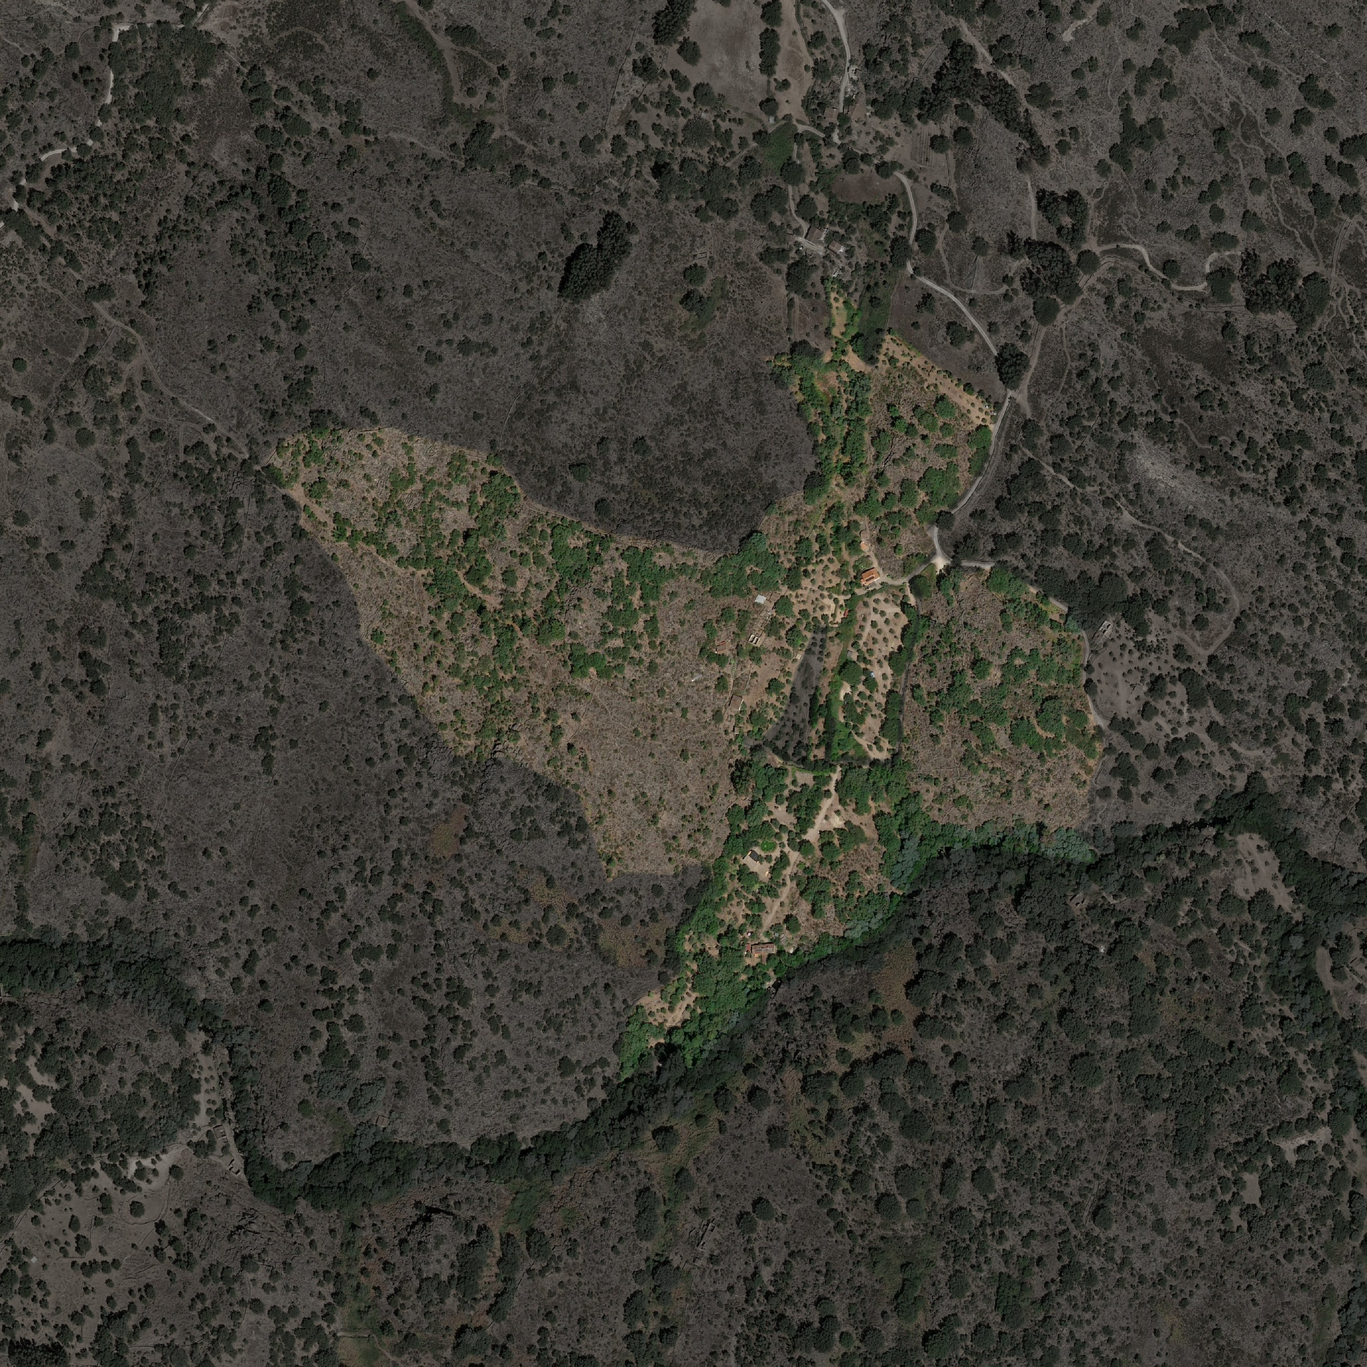
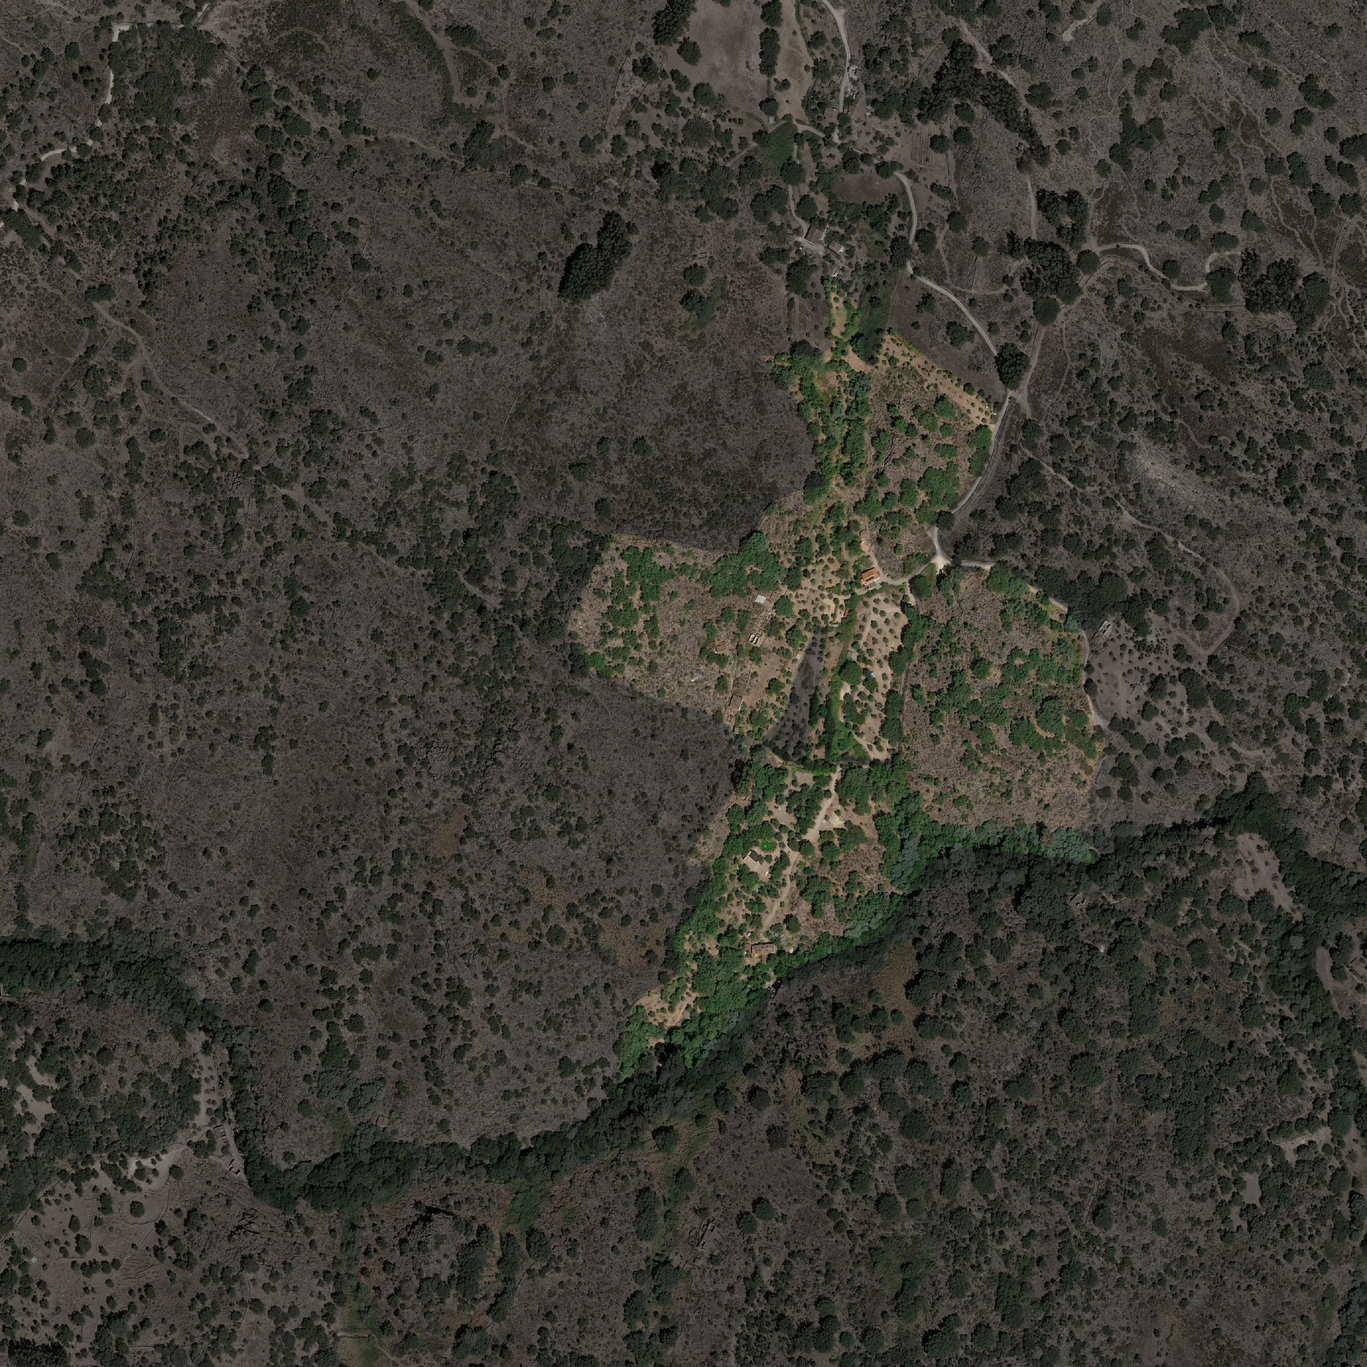
The Land planner: real land outline, navigate/edit modes, touch gestures, help

Changed region(s): [[0.1875, 0.3125, 0.5625, 0.6562]]

diff --git a/the-land/index.html b/the-land/index.html
@@ -82,6 +82,15 @@ input[type=checkbox]{accent-color:var(--accent);width:15px;height:15px}
 .save.busy i{background:var(--accent)} .save.local i{background:var(--warn)}
 .confirm{background:var(--chip);border:1px solid var(--line);border-radius:10px;padding:10px;display:flex;flex-direction:column;gap:8px;font-size:13px}
 .toggle-sheet{display:none}
+.iconbtn{width:34px;height:34px;padding:0;display:inline-grid;place-items:center;border-radius:50%;font-weight:700}
+.mbar{display:none}
+.modal{position:fixed;inset:0;z-index:30;background:rgba(10,14,11,.5);display:grid;place-items:center;padding:16px}
+.modal .box{background:var(--panel);color:var(--fg);border-radius:16px;box-shadow:var(--shadow);max-width:460px;width:100%;max-height:calc(100% - 32px);overflow:auto;padding:18px 20px;display:flex;flex-direction:column;gap:12px}
+.modal h2{font-family:var(--f-display);font-weight:400;font-size:22px;margin:0}
+.modal h3{font-size:12px;letter-spacing:.1em;text-transform:uppercase;color:var(--muted);margin:6px 0 0}
+.gest{display:grid;grid-template-columns:auto 1fr;gap:8px 12px;font-size:14px;align-items:start}
+.gest b{white-space:nowrap}
+.seg.tools{grid-template-columns:repeat(4,1fr);grid-auto-flow:row}
 
 .card{position:fixed;z-index:6;right:max(16px,env(safe-area-inset-right,0px));top:calc(16px + env(safe-area-inset-top,0px));width:270px;
   background:var(--panel);border:1px solid var(--line);border-radius:14px;box-shadow:var(--shadow);padding:14px 16px;display:flex;flex-direction:column;gap:10px}
@@ -106,6 +115,19 @@ input[type=checkbox]{accent-color:var(--accent);width:15px;height:15px}
 kbd{font:600 11px var(--f-body);background:var(--chip);border:1px solid var(--line);border-radius:4px;padding:0 4px}
 
 @media (max-width:720px){
+  .panel:not(.open){display:none}
+  .mbar{display:flex;flex-direction:column;gap:8px;position:fixed;z-index:6;left:0;right:0;bottom:0;
+    padding:10px max(12px,env(safe-area-inset-right,0px)) calc(10px + env(safe-area-inset-bottom,0px)) max(12px,env(safe-area-inset-left,0px));
+    background:color-mix(in srgb,var(--panel) 92%,transparent);border-top:1px solid var(--line);border-radius:16px 16px 0 0;box-shadow:var(--shadow);backdrop-filter:blur(8px)}
+  .mbar .top{display:flex;align-items:center;gap:8px}
+  .mbar .n{font-family:var(--f-display);font-size:24px;line-height:1}
+  .mbar .n small{font-family:var(--f-body);font-size:12px;color:var(--muted);margin-left:4px}
+  .mbar .seg button{padding:8px 4px;font-size:13px}
+  .mbar.min{padding-top:6px;padding-bottom:calc(6px + env(safe-area-inset-bottom,0px))}
+  .mbar.min .tools,.mbar.min .vseg,.mbar.min .mbtns{display:none}
+  .mbar:not(.min) .showctl{display:none}
+  .panel.open ~ .mbar{display:none}
+  .hint{bottom:auto;top:calc(10px + env(safe-area-inset-top,0px))}
   .panel{top:auto;bottom:calc(0px + env(safe-area-inset-bottom,0px));left:0;right:0;width:auto;border-radius:16px 16px 0 0;max-height:62%;
     padding-left:max(0px,env(safe-area-inset-left,0px));padding-right:max(0px,env(safe-area-inset-right,0px))}
   .panel.collapsed .more,.panel.collapsed #scnBtns,.panel.collapsed .brand .eyebrow{display:none}
@@ -116,7 +138,7 @@ kbd{font:600 11px var(--f-body);background:var(--chip);border:1px solid var(--li
   .count b{font-size:44px}
   .card{top:calc(48px + env(safe-area-inset-top,0px));left:max(16px,env(safe-area-inset-left,0px));right:max(16px,env(safe-area-inset-right,0px));width:auto;z-index:7;padding:12px 14px;gap:8px}
   .card .kv{grid-template-columns:auto auto auto auto;font-size:12px}
-  .hint{bottom:auto;top:calc(12px + env(safe-area-inset-top,0px));font-size:12px}
+  .hint{font-size:12px}
   .compass{display:none}
 }
 @media (pointer:coarse){.kbd{display:none}}
@@ -144,8 +166,8 @@ kbd{font:600 11px var(--f-body);background:var(--chip);border:1px solid var(--li
 <aside class="panel" id="panel" aria-label="Yurt planner">
   <div class="sec">
     <div class="brand">
-      <div><div class="eyebrow">Terra Sangha · Marvão · 15.8 ha</div><h1>Yurt Planner</h1></div>
-      <button class="ghost toggle-sheet" id="sheetBtn" aria-expanded="true">Less</button>
+      <div><div class="eyebrow" id="areaLbl">Terra Sangha · Marvão</div><h1>Yurt Planner</h1></div>
+      <div class="row" style="gap:6px;flex-wrap:nowrap"><button class="iconbtn" id="helpBtn" aria-label="How to use">?</button><button class="toggle-sheet" id="sheetBtn">Done</button></div>
     </div>
     <div class="row">
       <select id="scnSel" class="grow" aria-label="Scenario"></select>
@@ -158,11 +180,11 @@ kbd{font:600 11px var(--f-body);background:var(--chip);border:1px solid var(--li
   <div class="sec">
     <div class="count"><b id="nYurts">0</b><span id="nLabel">yurts placed</span></div>
     <div class="chips" id="chips"></div>
-    <div class="seg" role="group" aria-label="Tool">
-      <button id="tMove" aria-pressed="true">Move</button><button id="tAdd" aria-pressed="false">Add</button><button id="tDel" aria-pressed="false">Remove</button>
+    <div class="seg tools" role="group" aria-label="Mode">
+      <button data-tool="look" aria-pressed="false">Navigate</button><button data-tool="move" aria-pressed="true">Move</button><button data-tool="add" aria-pressed="false">Add</button><button data-tool="remove" aria-pressed="false">Remove</button>
     </div>
     <div class="seg" role="group" aria-label="View">
-      <button id="v3d" aria-pressed="true">3D view</button><button id="vTop" aria-pressed="false">Top view</button>
+      <button data-view="3d" aria-pressed="true">3D view</button><button data-view="top" aria-pressed="false">Top view</button>
     </div>
   </div>
   <div class="more">
@@ -199,10 +221,50 @@ kbd{font:600 11px var(--f-body);background:var(--chip);border:1px solid var(--li
       </div>
       <div id="clearForm" hidden></div>
       <div class="save" id="save"><i></i><span>Loading…</span></div>
-      <p class="note kbd"><kbd>A</kbd> add · <kbd>V</kbd> move · <kbd>T</kbd> top view · <kbd>Q</kbd>/<kbd>E</kbd> turn door · <kbd>Del</kbd> remove · <kbd>⌘Z</kbd> undo</p>
+      <p class="note kbd"><kbd>Shift</kbd>+drag moves the view · <kbd>N</kbd> navigate · <kbd>A</kbd> add · <kbd>V</kbd> move · <kbd>T</kbd> top view · <kbd>Q</kbd>/<kbd>E</kbd> turn door · <kbd>⌘Z</kbd> undo</p>
     </div>
   </div>
 </aside>
+
+<div class="mbar" id="mbar">
+  <div class="top">
+    <div class="n grow"><span id="mN">0</span><small>yurts</small></div>
+    <div class="seg vseg" role="group" aria-label="View"><button data-view="3d" aria-pressed="true">3D</button><button data-view="top" aria-pressed="false">Top</button></div>
+    <button class="iconbtn mbtns" id="mHelp" aria-label="How to use">?</button>
+    <button class="mbtns" id="mMore">More</button>
+    <button class="mbtns" id="mHide" aria-label="Hide controls">Hide</button>
+    <button class="showctl" id="mShow">Show controls</button>
+  </div>
+  <div class="seg tools" role="group" aria-label="Mode">
+    <button data-tool="look" aria-pressed="true">Navigate</button><button data-tool="move" aria-pressed="false">Move</button><button data-tool="add" aria-pressed="false">Add</button><button data-tool="remove" aria-pressed="false">Remove</button>
+  </div>
+</div>
+
+<div class="modal" id="help" hidden role="dialog" aria-modal="true" aria-labelledby="helpTitle">
+  <div class="box">
+    <div class="row" style="justify-content:space-between"><h2 id="helpTitle">How to use the planner</h2><button id="helpClose">Close</button></div>
+    <p class="note" style="font-size:13.5px;margin:0">Pick a mode: <b>Navigate</b> to look around, <b>Move</b>, <b>Add</b> or <b>Remove</b> to work on yurts. While you work on yurts the camera stays still under one finger, so dragging moves the yurt and not the view.</p>
+    <div id="helpTouch">
+      <h3>Fingers</h3>
+      <div class="gest">
+        <b>1 finger drag</b><span>Navigate: move across the land. Move mode: drag a yurt.</span>
+        <b>Pinch</b><span>Zoom in and out (works in every mode).</span>
+        <b>2 finger drag</b><span>Turn and tilt the view (in 3D). In top view it moves the map.</span>
+        <b>Tap</b><span>Add mode: place a yurt. Remove mode: take one away. Tap a yurt to see its details.</span>
+      </div>
+    </div>
+    <div id="helpMouse">
+      <h3>Mouse and keyboard</h3>
+      <div class="gest">
+        <b>Drag</b><span>Turn the view (3D) or move the map (top view). Drag a yurt to move it.</span>
+        <b>Shift + drag</b><span>Move across the land. Right-drag does the same.</span>
+        <b>Scroll</b><span>Zoom in and out.</span>
+        <b>Keys</b><span><kbd>N</kbd> navigate · <kbd>V</kbd> move · <kbd>A</kbd> add · <kbd>X</kbd> remove · <kbd>T</kbd> top view · <kbd>Q</kbd>/<kbd>E</kbd> turn door · <kbd>Del</kbd> remove · <kbd>⌘Z</kbd> undo</span>
+      </div>
+    </div>
+    <p class="note" style="margin:0">Yurts can only be placed inside the land (gold outline). Your scenarios are saved in this browser.</p>
+  </div>
+</div>
 
 <div class="card" id="card" hidden>
   <div class="row" style="justify-content:space-between"><h2 id="cTitle">Yurt</h2><button class="ghost" id="cClose" aria-label="Close">Close</button></div>
@@ -253,6 +315,9 @@ const inTerrain = (lx, ly) => lx > T.x0 + 2 && lx < T.x0 + T.nx - 3 && ly < T.y1
 const boundary = site.boundary;
 function pip(x, y, poly) { let ins = false; for (let i = 0, j = poly.length - 1; i < poly.length; j = i++) { const [xi, yi] = poly[i], [xj, yj] = poly[j]; if ((yi > y) !== (yj > y) && x < (xj - xi) * (y - yi) / (yj - yi) + xi) ins = !ins; } return ins; }
 const inLand = (x, y) => boundary.some(p => pip(x, y, p)) && !site.holes.some(p => pip(x, y, p));
+const RING8 = Array.from({ length: 8 }, (_, k) => [Math.cos(k * Math.PI / 4), Math.sin(k * Math.PI / 4)]);
+const validSpot = (x, y) => inTerrain(x, y) && inLand(x, y) && RING8.every(([a, b]) => inLand(x + a * 4, y + b * 4));
+$('areaLbl').textContent = `Terra Sangha · Marvão · ${(site.area_m2 / 10000).toFixed(1)} ha`;
 const riverPts = site.river.flat();
 function riverDist(x, y) {
   let best = 1e9;
@@ -582,7 +647,7 @@ function rebuildRings() {
 const persp = new THREE.PerspectiveCamera(42, innerWidth / innerHeight, 1, 30000);
 persp.position.set(ctr.x - 230, ctr.y + 430, ctr.z + 560);
 const orbit = new OrbitControls(persp, renderer.domElement);
-orbit.target.copy(ctr); orbit.enableDamping = true; orbit.dampingFactor = .09; orbit.maxPolarAngle = Math.PI * .47; orbit.minDistance = 15; orbit.maxDistance = 4000; orbit.screenSpacePanning = false;
+orbit.target.copy(ctr); orbit.zoomToCursor = true; orbit.enableDamping = true; orbit.dampingFactor = .09; orbit.maxPolarAngle = Math.PI * .47; orbit.minDistance = 15; orbit.maxDistance = 4000; orbit.screenSpacePanning = false;
 const TOPH = 360;
 const topCam = new THREE.OrthographicCamera(-1, 1, 1, -1, 1, 5000);
 function sizeOrtho() { const a = innerWidth / innerHeight; topCam.left = -TOPH * a; topCam.right = TOPH * a; topCam.top = TOPH; topCam.bottom = -TOPH; topCam.updateProjectionMatrix(); }
@@ -594,10 +659,17 @@ topCtl.minZoom = .5; topCtl.maxZoom = 18; topCtl.zoomToCursor = true;
 topCtl.mouseButtons = { LEFT: THREE.MOUSE.PAN, MIDDLE: THREE.MOUSE.DOLLY, RIGHT: THREE.MOUSE.PAN };
 topCtl.touches = { ONE: THREE.TOUCH.PAN, TWO: THREE.TOUCH.DOLLY_PAN };
 topCtl.enabled = false;
+// touch: 1 finger moves across the land, 2 fingers pinch-zoom and turn/tilt (map apps); mouse: drag turns, shift/right-drag moves
+function applyGestures() {
+  const editing = tool !== 'look';
+  orbit.touches = { ONE: editing ? null : THREE.TOUCH.PAN, TWO: THREE.TOUCH.DOLLY_ROTATE };
+  topCtl.touches = { ONE: editing ? null : THREE.TOUCH.PAN, TWO: THREE.TOUCH.DOLLY_PAN };
+}
+let tool = touch ? 'look' : 'move';
 const cam = () => topView ? topCam : persp;
 const ctl = () => topView ? topCtl : orbit;
 function setView(top) {
-  topView = top; $('v3d').setAttribute('aria-pressed', !top); $('vTop').setAttribute('aria-pressed', top);
+  topView = top; document.querySelectorAll('[data-view]').forEach(b => b.setAttribute('aria-pressed', (b.dataset.view === 'top') === top));
   orbit.enabled = !top; topCtl.enabled = top;
   if (top) { const t = orbit.target.clone(); topCtl.target.copy(t); topCam.position.set(t.x, t.y + 1500, t.z + 0.01); topCam.zoom = Math.max(.6, Math.min(8, 900 / persp.position.distanceTo(orbit.target))); topCam.updateProjectionMatrix(); topCtl.update(); }
   else { const t = topCtl.target.clone(), d = Math.max(120, 900 / topCam.zoom); const off = persp.position.clone().sub(orbit.target).setLength(d); orbit.target.copy(t); persp.position.copy(t).add(off); orbit.update(); }
@@ -620,14 +692,25 @@ function groundHit(e) {
   }
   return null;
 }
-function yurtHit(e) { if (!yurts.length) return -1; setRay(e); const h = ray.intersectObject(pick, false); return h.length ? h[0].instanceId : -1; }
+function yurtHit(e) {
+  if (!yurts.length) return -1; setRay(e); const h = ray.intersectObject(pick, false); if (h.length) return h[0].instanceId;
+  const r = renderer.domElement.getBoundingClientRect(), tol = e.pointerType === 'touch' ? 34 : 12; let best = -1, bd = tol;
+  yurts.forEach((y, i) => { pv.set(y.x, (info[i]?.top ?? 0) + 1.5, -y.y).project(cam()); if (pv.z > 1) return;
+    const d = Math.hypot((pv.x * .5 + .5) * r.width - (e.clientX - r.left), (-pv.y * .5 + .5) * r.height - (e.clientY - r.top)); if (d < bd) { bd = d; best = i; } });
+  return best;
+}
 
 // ---------- interaction ----------
-let tool = 'move';
-function setTool(t) { tool = t; for (const [id, v] of [['tMove', 'move'], ['tAdd', 'add'], ['tDel', 'remove']]) $(id).setAttribute('aria-pressed', v === t); renderer.domElement.style.cursor = t === 'add' ? 'crosshair' : ''; setHint(); }
+function setTool(t) {
+  tool = t; document.querySelectorAll('[data-tool]').forEach(b => b.setAttribute('aria-pressed', b.dataset.tool === t));
+  renderer.domElement.style.cursor = t === 'add' ? 'crosshair' : ''; applyGestures(); setHint();
+}
 function setHint() {
-  const h = { move: touch ? 'Drag a yurt to move it · drag the ground to look around' : 'Drag a yurt to move it · drag the ground to look around · scroll to zoom',
-    add: 'Tap or click on the land to place a yurt', remove: 'Tap or click a yurt to remove it' }[tool];
+  const h = touch ? {
+    look: topView ? '1 finger moves the map · pinch to zoom' : '1 finger moves · 2 fingers turn and tilt · pinch to zoom',
+    move: 'Drag a yurt with 1 finger · 2 fingers move the view', add: 'Tap the land to place a yurt · 2 fingers move the view', remove: 'Tap a yurt to remove it · 2 fingers move the view' }[tool] : {
+    look: topView ? 'Drag to move the map · scroll to zoom' : 'Drag to turn · Shift+drag or right-drag to move · scroll to zoom',
+    move: topView ? 'Drag a yurt to move it · drag the ground to move the map' : 'Drag a yurt to move it · drag the ground to turn · Shift+drag to move', add: 'Click on the land to place a yurt', remove: 'Click a yurt to remove it' }[tool];
   $('hint').textContent = h;
 }
 let drag = null, down = null;
@@ -636,7 +719,8 @@ stage.addEventListener('pointerdown', e => {
   if (e.button !== 0 && e.pointerType === 'mouse') return;
   down = { x: e.clientX, y: e.clientY, t: performance.now(), id: e.pointerId };
   const i = yurtHit(e);
-  if (i >= 0 && tool !== 'remove') {
+  if (drag) return;
+  if (i >= 0 && (tool === 'move' || tool === 'add')) {
     const g = groundHit(e);
     drag = { i, dx: g ? yurts[i].x - g.x : 0, dy: g ? yurts[i].y - g.y : 0, moved: false, before: snapshot() };
     ctl().enabled = false; selected = i; el.setPointerCapture(e.pointerId); rebuild();
@@ -645,7 +729,11 @@ stage.addEventListener('pointerdown', e => {
 el.addEventListener('pointermove', e => {
   if (drag) {
     const g = groundHit(e); if (!g) return;
-    const y = yurts[drag.i]; y.x = g.x + drag.dx; y.y = g.y + drag.dy; drag.moved = true; rebuild();
+    const y = yurts[drag.i], nx = g.x + drag.dx, ny = g.y + drag.dy;
+    if (drag.wasValid === undefined) drag.wasValid = validSpot(y.x, y.y);
+    if (drag.wasValid && !validSpot(nx, ny)) { drag.blocked = true; return; }
+    if (!drag.wasValid && validSpot(nx, ny)) drag.wasValid = true;
+    y.x = nx; y.y = ny; drag.moved = true; rebuild();
   } else if (!touch && !down) {
     const i = yurtHit(e); el.style.cursor = i >= 0 ? (tool === 'remove' ? 'not-allowed' : 'grab') : (tool === 'add' ? 'crosshair' : '');
   }
@@ -655,11 +743,13 @@ function endPointer(e) {
   if (drag) {
     ctl().enabled = true;
     if (drag.moved) commit(drag.before);
+    if (drag.blocked) toast('Yurts stay inside the land (gold outline).');
     drag = null;
   } else if (click) {
     const i = yurtHit(e);
     if (tool === 'remove' && i >= 0) { const b = snapshot(); yurts.splice(i, 1); selected = -1; commit(b); rebuild(); }
-    else if (tool === 'add' && i < 0) { const g = groundHit(e); if (g) addYurt(g.x, g.y); }
+    else if (tool === 'add' && i < 0) { const g = groundHit(e); if (g) { if (validSpot(g.x, g.y)) addYurt(g.x, g.y); else toast('That spot is outside the land. Place yurts inside the gold outline.'); } }
+    else if (i >= 0 && tool === 'look') { selected = i; rebuild(); }
     else if (i < 0 && selected >= 0) { selected = -1; rebuild(); }
   }
   down = null;
@@ -682,11 +772,11 @@ addEventListener('keydown', e => {
   const k = e.key.toLowerCase();
   if ((e.metaKey || e.ctrlKey) && k === 'z') { e.preventDefault(); undo(); return; }
   if (e.metaKey || e.ctrlKey || e.altKey) return;
-  if (k === 'a') setTool('add'); else if (k === 'v') setTool('move'); else if (k === 'x') setTool('remove');
+  if (k === 'n') setTool('look'); else if (k === 'a') setTool('add'); else if (k === 'v') setTool('move'); else if (k === 'x') setTool('remove');
   else if (k === 't') setView(!topView);
   else if (k === 'q') rotateSel(Math.PI / 12); else if (k === 'e') rotateSel(-Math.PI / 12);
   else if (k === 'delete' || k === 'backspace') { e.preventDefault(); removeSel(); }
-  else if (k === 'escape') { selected = -1; rebuild(); }
+  else if (k === 'escape') { $('help').hidden = true; selected = -1; rebuild(); }
 });
 
 // ---------- history ----------
@@ -698,7 +788,7 @@ function undo() { if (!history.length) return; yurts = JSON.parse(history.pop())
 // ---------- panel ----------
 function chip(cls, n, text) { return `<span class="chip ${cls}${n ? '' : ' zero'}"><i class="dot"></i>${n} ${text}</span>`; }
 function updatePanel() {
-  const n = yurts.length; $('nYurts').textContent = n; $('nLabel').textContent = n === 1 ? 'yurt placed' : 'yurts placed';
+  const n = yurts.length; $('nYurts').textContent = n; $('mN').textContent = n; $('nLabel').textContent = n === 1 ? 'yurt placed' : 'yurts placed';
   const inside = info.filter(f => f.inside && !f.edge).length, out = info.filter(f => !f.inside).length, edge = info.filter(f => f.edge).length;
   const close = info.filter(f => f.near < settings.spacing).length, riv = settings.buffer ? info.filter(f => f.river < settings.buffer).length : 0;
   const bld = info.filter(f => f.building).length, trees = info.reduce((s, f) => s + f.trees, 0);
@@ -718,13 +808,20 @@ function updateCard() {
   ].map(([k, v]) => `<dt>${k}</dt><dd>${v}</dd>`).join('');
   $('cIssues').innerHTML = f.issues.length ? f.issues.map(([s, t]) => `<div><i class="dot" style="background:var(--${s})"></i>${t}</div>`).join('') : `<div><i class="dot"></i>Fits all the rules</div>`;
 }
-$('tMove').onclick = () => setTool('move'); $('tAdd').onclick = () => setTool('add'); $('tDel').onclick = () => setTool('remove');
-$('v3d').onclick = () => setView(false); $('vTop').onclick = () => setView(true);
+document.querySelectorAll('[data-tool]').forEach(b => b.onclick = () => setTool(b.dataset.tool));
+document.querySelectorAll('[data-view]').forEach(b => b.onclick = () => setView(b.dataset.view === 'top'));
+const openHelp = () => { $('helpTouch').hidden = !touch && innerWidth > 720; $('helpMouse').hidden = touch; $('help').hidden = false; $('helpClose').focus(); };
+$('helpBtn').onclick = openHelp; $('mHelp').onclick = openHelp;
+$('helpClose').onclick = () => { $('help').hidden = true; };
+$('help').onclick = e => { if (e.target === $('help')) $('help').hidden = true; };
+$('mMore').onclick = () => { $('panel').classList.add('open'); };
+$('mHide').onclick = () => { $('mbar').classList.add('min'); };
+$('mShow').onclick = () => { $('mbar').classList.remove('min'); };
 $('rotL').onclick = () => rotateSel(Math.PI / 12); $('rotR').onclick = () => rotateSel(-Math.PI / 12); $('cDel').onclick = removeSel;
 $('cClose').onclick = () => { selected = -1; rebuild(); };
 $('undo').onclick = undo;
-$('sheetBtn').onclick = () => { const p = $('panel'), col = p.classList.toggle('collapsed'); $('sheetBtn').textContent = col ? 'More' : 'Less'; $('sheetBtn').setAttribute('aria-expanded', !col); };
-if (innerWidth <= 720) { $('sheetBtn').click(); $('lNames').checked = false; $('labels').hidden = true; }
+$('sheetBtn').onclick = () => { $('panel').classList.remove('open'); };
+if (innerWidth <= 720) { $('lNames').checked = false; $('labels').hidden = true; }
 function applySettingsUI() {
   $('spacing').value = settings.spacing; $('spacingV').textContent = settings.spacing + ' m';
   $('buffer').value = settings.buffer; $('bufferV').textContent = settings.buffer ? settings.buffer + ' m' : 'off';
@@ -763,7 +860,7 @@ $('fill').onclick = () => {
   const x0 = Math.min(...xs), x1 = Math.max(...xs), y0 = Math.min(...ys), y1 = Math.max(...ys), st = 2;
   let added = 0;
   for (let y = y1; y >= y0 && yurts.length < MAXN; y -= st) for (let x = x0; x <= x1 && yurts.length < MAXN; x += st) {
-    if (!free(x, y) || !inLand(x, y) || !inTerrain(x, y)) continue;
+    if (!free(x, y) || !validSpot(x, y)) continue;
     if (RING16.some(([a, c]) => !inLand(x + a * DECK_R, y + c * DECK_R))) continue;
     if (buf && riverDist(x, y) < buf) continue;
     if (buildingBoxes.some(bb => Math.hypot(Math.max(bb.x0 - x, 0, x - bb.x1), Math.max(bb.y0 - y, 0, y - bb.y1)) < DECK_R + .8)) continue;
@@ -915,7 +1012,8 @@ if (!Object.keys(scenarios).length) {
 const last = prefs().last;
 await openScenario(scenarios[last] ? last : Object.keys(scenarios).sort((a, b) => (scenarios[b].updated || 0) - (scenarios[a].updated || 0))[0]);
 setSave(store.kind === 'db' ? 'ok' : 'local', store.kind === 'db' ? 'Your scenarios are saved to your account' : 'Your scenarios are saved in this browser');
-setTool('move');
+setTool(tool);
+try { if (touch && !localStorage.getItem('the-land-help-seen')) { localStorage.setItem('the-land-help-seen', '1'); setTimeout(openHelp, 600); } } catch {}
 progress(1); $('loading').hidden = true;
 window.__planner = { persp, orbit, topCam, setView, get yurts() { return yurts; } };
 </script>
